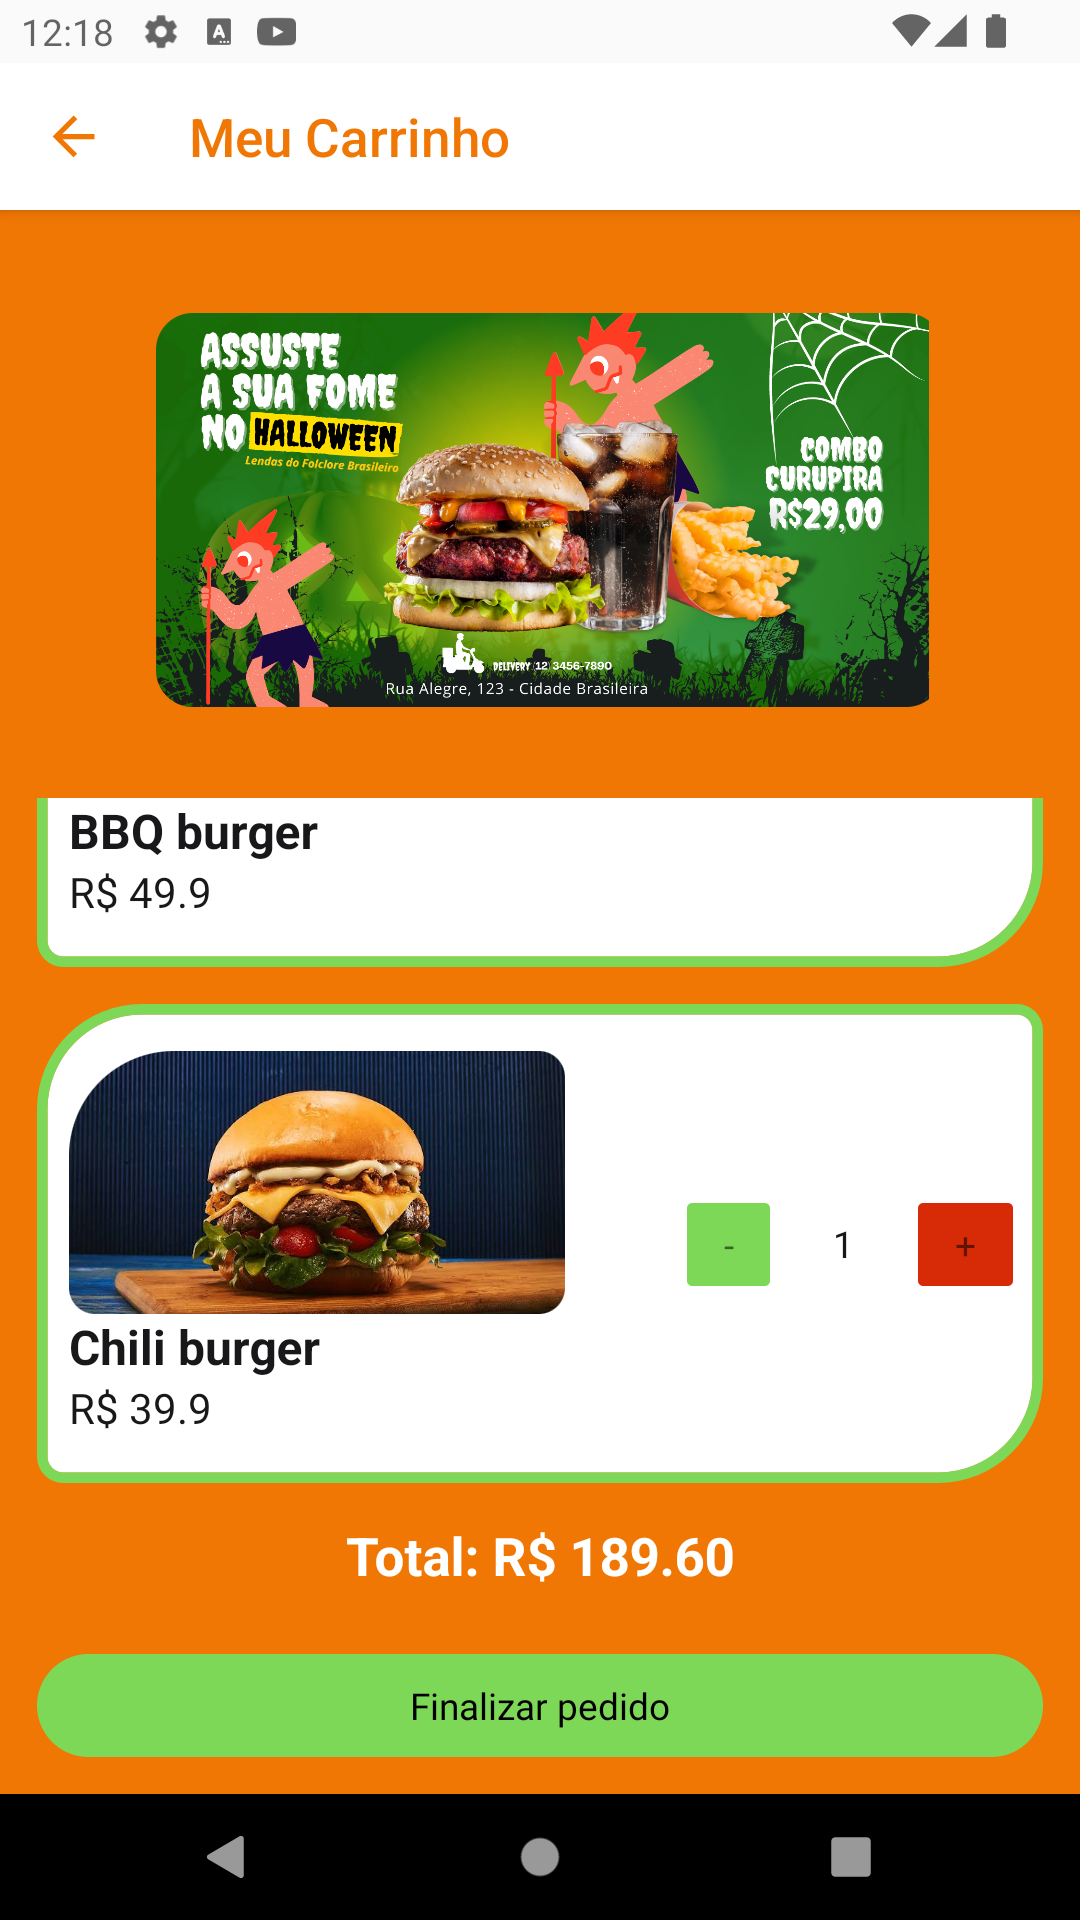
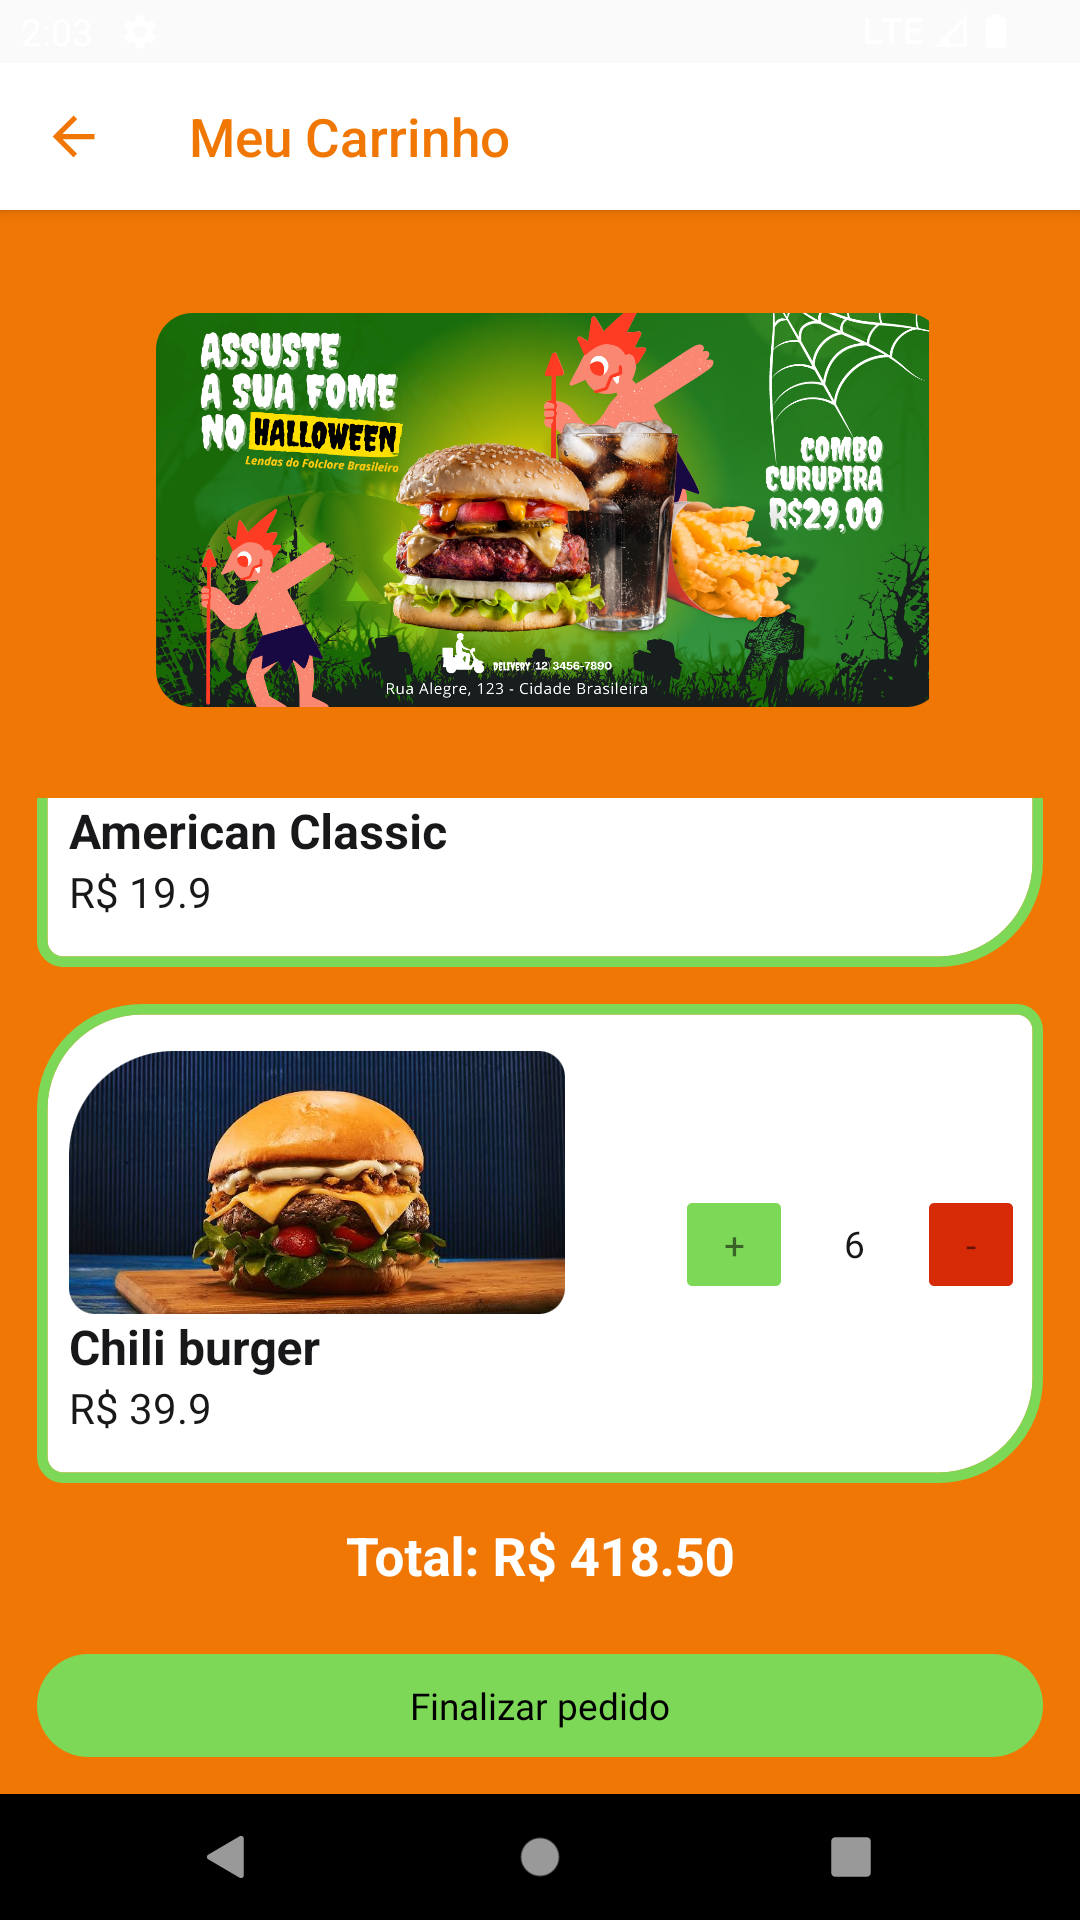
finalizado :)

diff --git a/src/components/CardItem/index.js b/src/components/CardItem/index.js
@@ -31,21 +31,20 @@ export default function CardItem({ data, addAmount, removeAmount }) {
 
   return (
     <Container>
-     
       <View>
-      <Imagem source={data.image} />
+        <Imagem source={data.image} />
         <Title>{data.name}</Title>
         <Price>R$ {data.price}</Price>
       </View>
 
       <AmountContainer>
-        <ButtonAdd onPress={handleDecrease}>
+        <ButtonAdd onPress={handleIncrease}>
           <Text>+</Text>
         </ButtonAdd>
 
         <Amount>{amount}</Amount>
 
-        <ButtonRemove onPress={handleIncrease}>
+        <ButtonRemove onPress={handleDecrease}>
           <Text>-</Text>
         </ButtonRemove>
       </AmountContainer>

diff --git a/src/routes/index.js b/src/routes/index.js
@@ -4,7 +4,6 @@ import { createDrawerNavigator } from '@react-navigation/drawer';
 
 import StackRoutes from './stackRoutes';
 import Camera from "../screens/camera";
-import Mapa from "../screens/mapa";
 
 import CustomDrawer from '../components/CustomDrawer';
 
